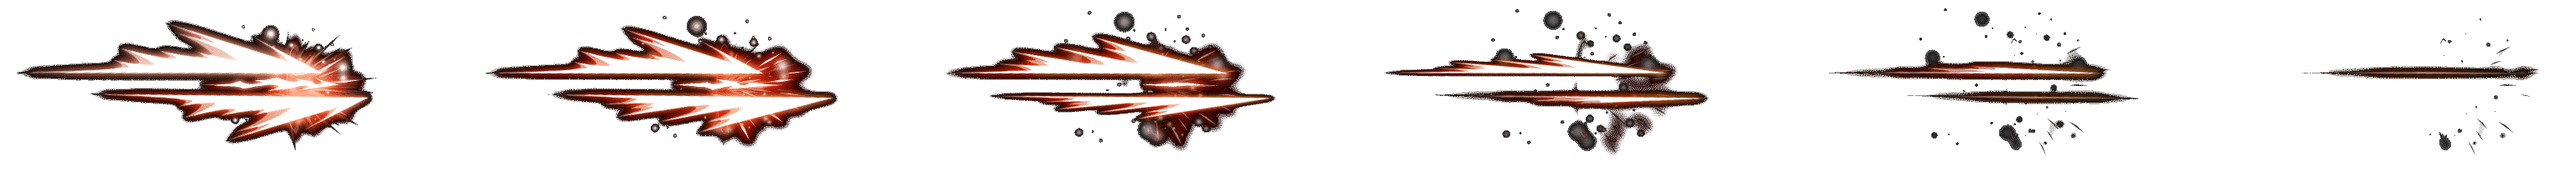
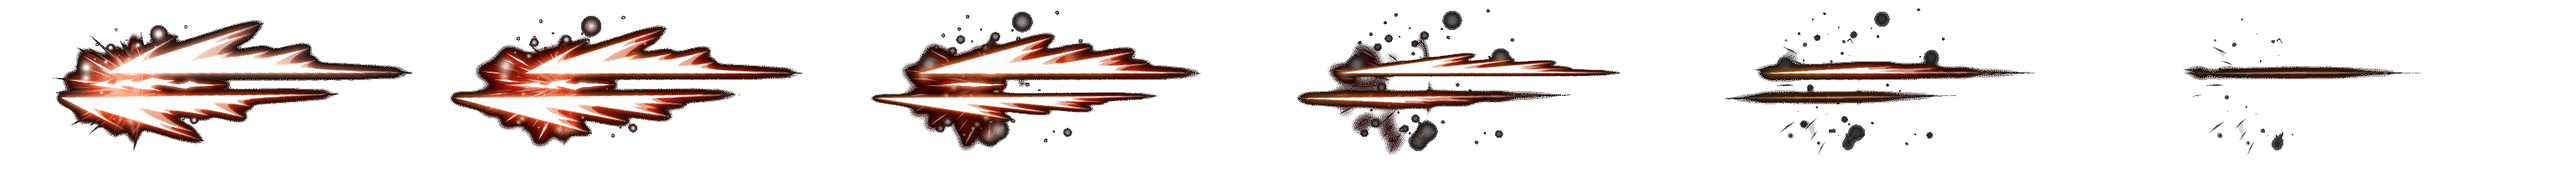
patch

diff --git a/js/systems/combat-runtime.js b/js/systems/combat-runtime.js
@@ -93,7 +93,7 @@ function taijiBladeSize(lv){return 9+lv*1.8}
 function katanaSlashCount(lv){return Math.min(5,1+Math.floor(lv/2))}
 function aoe(x,y,r,damage,source,opt={}){r*=player.areaMul;if(!opt.skipVisual)addVisual({type:"ring",x,y,r,life:.32,max:.32,color:opt.color||C[selectedWeapon],width:opt.width||5,source:opt.vfxSource||source});for(const e of GameSpatial.queryCircle(x,y,r+64)){if(e.dead)continue;const d=Math.hypot(e.x-x,e.y-y);if(d<r+e.r){damageEnemy(e,damage,source,Object.assign({},opt,{distance:d}));if(opt.knock){const n=d||1;e.pushX+=(e.x-x)/n*opt.knock;e.pushY+=(e.y-y)/n*opt.knock;player.metrics.knockbacks++}}}}
 function lineHit(x1,y1,x2,y2,width,damage,source,opt={}){width*=Math.sqrt(player.areaMul);if(!opt.skipVisual)addVisual({type:"line",x1,y1,x2,y2,width,life:opt.life||.2,max:opt.life||.2,color:opt.color||C[selectedWeapon],source:opt.visualSource||source});const pad=width+64;for(const e of GameSpatial.queryAABB(Math.min(x1,x2)-pad,Math.min(y1,y2)-pad,Math.max(x1,x2)+pad,Math.max(y1,y2)+pad)){if(e.dead)continue;const vx=x2-x1,vy=y2-y1,l2=vx*vx+vy*vy||1,t=Math.max(0,Math.min(1,((e.x-x1)*vx+(e.y-y1)*vy)/l2)),px=x1+t*vx,py=y1+t*vy,d=Math.hypot(e.x-px,e.y-py);if(d<width+e.r)damageEnemy(e,damage,source,Object.assign({},opt,{distance:Math.hypot(e.x-player.x,e.y-player.y)}))}}
-function coneHit(angle,range,half,damage,source,opt={}){range*=player.areaMul;half=Math.min(Math.PI,half*Math.sqrt(player.areaMul));if(!opt.skipVisual)addVisual({type:"cone",x:player.x,y:player.y,a:angle,r:range,half,life:.24,max:.24,color:opt.color||C[selectedWeapon],source});for(const e of GameSpatial.queryCircle(player.x,player.y,range+64)){if(e.dead)continue;const dx=e.x-player.x,dy=e.y-player.y,d=Math.hypot(dx,dy);let da=Math.atan2(dy,dx)-angle;da=Math.atan2(Math.sin(da),Math.cos(da));if(d<range+e.r&&Math.abs(da)<half)damageEnemy(e,damage,source,Object.assign({},opt,{distance:d}));}}
+function coneHit(angle,range,half,damage,source,opt={}){range*=player.areaMul;half=Math.min(Math.PI,half*Math.sqrt(player.areaMul));if(!opt.skipVisual)addVisual({type:"cone",x:player.x,y:player.y,a:angle,r:range,half,life:.24,max:.24,color:opt.color||C[selectedWeapon],source});for(const e of GameSpatial.queryCircle(player.x,player.y,range+64)){if(e.dead)continue;const dx=e.x-player.x,dy=e.y-player.y,d=Math.hypot(dx,dy);let da=Math.atan2(dy,dx)-angle;da=Math.atan2(Math.sin(da),Math.cos(da));if(d<range+e.r&&Math.abs(da)<half){damageEnemy(e,damage,source,Object.assign({},opt,{distance:d}));if(opt.knock){const n=d||1;e.pushX+=dx/n*opt.knock;e.pushY+=dy/n*opt.knock;player.metrics.knockbacks++}}}}
 const POISON_STACK_CAP=5;
 function applyPoison(e,potency,duration=5,stacks=1){if(!potency||e.dead)return;const scaled=potency*player.damageMul*player.poisonMul;e.poison=Math.max(e.poison||0,scaled);e.poisonStacks=Math.min(POISON_STACK_CAP,Math.max(0,e.poisonStacks||0)+Math.max(1,stacks|0));e.poisonTime=Math.max(e.poisonTime||0,duration);e.poisonTick=Math.min(e.poisonTick||.15,.15)}
 function damageEnemy(e,dmg,source,opt={}){if(e.dead)return 0;const elite=(e.type==="midboss"||e.type==="boss")?player.eliteDamageMul:1,crit=Math.random()<player.critChance,amount=dmg*player.damageMul*elite*(crit?player.critDamage:1);e.hp-=amount;e.hit=.09;if(crit)addVisual({type:"text",x:e.x,y:e.y-18,text:"치명",life:.32,max:.32,color:"#fff0a8"});screenShake=Math.max(screenShake,opt.shake||1.2);if(opt.poison)applyPoison(e,opt.poison,opt.poisonTime||5,opt.poisonStacks||1);if(opt.deathPoisonTime)e.deathPoisonTime=Math.max(e.deathPoisonTime||0,opt.deathPoisonTime);if(opt.slow){e.slow=Math.min(e.slow,opt.slow);e.slowTime=Math.max(e.slowTime,opt.slowTime||2)}if(opt.disarm){const scale=e.type==="boss"?.35:e.type==="midboss"?.6:1;e.disarmTime=Math.max(e.disarmTime||0,opt.disarm*scale)}if(opt.stun){const stunScale=e.type==="boss"?.32:e.type==="midboss"?.55:1;e.stunTime=Math.max(e.stunTime||0,opt.stun*stunScale)}if(opt.elemental)opt.elemental=true;if(e.hp<=0)killEnemy(e,source,opt);if(!opt.skipImpactVfx)particle(e.x,e.y,opt.color||e.color,55,2);return amount}
@@ -121,7 +121,7 @@ function fireBasic(){const w=selectedWeapon,t=nearest();if(!t)return;const a=Mat
  else if(w==="tao"){chainLightning(t,1+Math.floor(lv/3)+player.projectileBonus,11+lv*5,"elemental");player.fireTimer=.82*Math.pow(.95,lv-1)}
  else if(w==="saber"){const range=(100+lv*12)*saberHeavenRangeMul(),half=(.56+lv*.035)*Math.sqrt(saberHeavenRangeMul()),unity=saberUnityActive(),trueUnity=saberTrueUnityActive(),damage=(20+lv*7)*(trueUnity?1.35:1);coneHit(a,range,half,damage,"basic",{knock:80,shake:trueUnity?7:3,color:C.saber,skipVisual:trueUnity});if(trueUnity)addVisual({type:"skillSaberUnityThunder",x:player.x,y:player.y,a,r:range*player.areaMul,half,life:.42,max:.42,color:"#c072ff",visibilityBoost:1.15});player.fireTimer=.92*Math.pow(.95,lv-1)*(trueUnity?.75:unity?.80:1)}
  else if(w==="katana"){const n=katanaSlashCount(lv),len=235+lv*17,width=9+lv*1.25,base=22+lv*7,interval=Math.max(.052,.09-lv*.004);for(let i=0;i<n;i++){const off=(i-(n-1)/2)*.09,aa=a+off,side=(i%2?1:-1)*(5+i*2);delayed.push({time:i*interval+.012,type:"katanaSlash",a:aa,side,len:len+i*10,width:width+i*.45,damage:base*(i===0?1:.72),color:i===n-1&&lv>=7?"#ffffff":C.katana,arc:36+lv*3+i*4,arcWidth:2.5+lv*.25,index:i,total:n})}player.fireTimer=Math.max(.62,.82*Math.pow(.95,lv-1)+interval*(n-1)*.35)}
- else if(w==="fist"){const range=112+lv*12,half=.50+lv*.018;coneHit(a,range,half,17+lv*6,"basic",{knock:170+lv*12,shake:3,color:"#e8bd62",skipVisual:true});addVisual({type:"skillFistTiger",x:player.x,y:player.y,a,r:range,life:.54,max:.54,color:"#e8bd62",holdAlpha:true});player.fireTimer=.76*Math.pow(.95,lv-1)}
+ else if(w==="fist"){const range=150+lv*15,half=.58+lv*.012;coneHit(a,range,half,17+lv*6,"basic",{knock:210+lv*15,shake:4,color:"#e8bd62",skipVisual:true});addVisual({type:"skillFistTiger",x:player.x,y:player.y,a,r:range,life:.54,max:.54,color:"#e8bd62",holdAlpha:true});player.fireTimer=.76*Math.pow(.95,lv-1)}
 }
 function chainLightning(first,count,damage,source){let current=first,from={x:player.x,y:player.y},used=[];for(let i=0;i<count&&current;i++){addVisual({type:"lightning",x1:from.x,y1:from.y,x2:current.x,y2:current.y,width:3,life:.16,max:.16,color:"#80c8e8"});damageEnemy(current,damage,source,{elemental:true,color:"#80c8e8",shake:2,stun:.22});used.push(current);from=current;current=nearest(175,from.x,from.y,used)}GameAudio.playSFX("lightning-chain")}
 function tickArts(dt){const a=player.arts,cd=player.cooldowns;for(const k in cd)cd[k]-=dt*player.cooldownRate;
@@ -146,7 +146,7 @@ function tickArts(dt){const a=player.arts,cd=player.cooldowns;for(const k in cd)
  if(a.zanshin&&Math.hypot(move.x,move.y)>.3){cd.zanshinDrop=(cd.zanshinDrop||0)-dt;if(cd.zanshinDrop<=0){cd.zanshinDrop=Math.max(.55,1.35-a.zanshin*.12);const x=player.x,y=player.y;addVisual({type:"afterimage",x,y,r:18,life:.65,max:.65,color:C.katana});delayed.push({time:.55,type:"aoe",x,y,r:58+a.zanshin*5,damage:12+a.zanshin*7,color:C.katana,source:"zanshin",knock:60})}}
  if(a.nameless&&cd.nameless<=0){cd.nameless=Math.max(3.7,8-a.nameless*.7);for(let i=0;i<7+a.nameless*2;i++){const ang=Math.random()*Math.PI*2,off=(Math.random()-.5)*260,x1=player.x+Math.cos(ang+Math.PI/2)*off-Math.cos(ang)*500,y1=player.y+Math.sin(ang+Math.PI/2)*off-Math.sin(ang)*500,x2=x1+Math.cos(ang)*1000,y2=y1+Math.sin(ang)*1000;lineHit(x1,y1,x2,y2,6+a.nameless*.8,16+a.nameless*7.6,"nameless",{shake:3,color:"#f8f5ff",life:.13,visualSource:"namelessV1454"});addVisual({type:"namelessCutV1454",x1,y1,x2,y2,width:5+a.nameless*.7,life:.24,max:.24,color:i%3===0?"#ffffff":"#d9d0ff",phase:i*.37})}showMessage("무명신풍류",.9)}
  if(a.hundredstep&&cd.hundredstep<=0){cd.hundredstep=Math.max(1.3,3.5-a.hundredstep*.32);const t=nearest();if(t){const ang=Math.atan2(t.y-player.y,t.x-player.x),count=Math.min(5,1+Math.floor((a.hundredstep-1)/2));addVisual({type:"skillFistHundredShoot",x:player.x,y:player.y,a:ang,r:165,life:.54,max:.54,color:"#f2cf72",holdAlpha:true});delayed.push({time:.34,type:"hundredFistVolley",a:ang,count,level:a.hundredstep})}}
- if(a.taijifist&&cd.taijifist<=0){cd.taijifist=Math.max(1.8,4.6-a.taijifist*.4);const t=nearest(),ang=t?Math.atan2(t.y-player.y,t.x-player.x):facingAngle(),range=132+a.taijifist*14;coneHit(ang,range,.58,12+a.taijifist*6,"taijifist",{knock:300+a.taijifist*22,color:"#e7bd52",shake:6,skipVisual:true});addVisual({type:"skillFistDragonKick",x:player.x,y:player.y,a:ang,r:range,life:.36,max:.36,color:"#f2cc65",holdAlpha:true});addVisual({type:"skillFistDragonKickCombo",x:player.x+Math.cos(ang)*range*.62,y:player.y+Math.sin(ang)*range*.62,a:ang,r:92,life:.75,max:.75,color:"#f6d56c",holdAlpha:true})}
+ if(a.taijifist&&cd.taijifist<=0){cd.taijifist=Math.max(1.8,4.6-a.taijifist*.4);const t=nearest(),ang=t?Math.atan2(t.y-player.y,t.x-player.x):facingAngle(),range=178+a.taijifist*18;coneHit(ang,range,.64,12+a.taijifist*6,"taijifist",{knock:320+a.taijifist*24,color:"#e7bd52",shake:7,skipVisual:true});addVisual({type:"skillFistDragonKick",x:player.x,y:player.y,a:ang,r:range,life:.36,max:.36,color:"#f2cc65",holdAlpha:true});addVisual({type:"skillFistDragonKickCombo",x:player.x+Math.cos(ang)*range*.66,y:player.y+Math.sin(ang)*range*.66,a:ang,r:120,life:.75,max:.75,color:"#f6d56c",holdAlpha:true})}
  if(a.dragonreturn&&cd.dragonreturn<=0){cd.dragonreturn=Math.max(3,7-a.dragonreturn*.58);const t=nearest();if(t){const ang=Math.atan2(t.y-player.y,t.x-player.x),len=Math.max(W,H)*1.1;lineHit(player.x,player.y,player.x+Math.cos(ang)*len,player.y+Math.sin(ang)*len,28+a.dragonreturn*4,48+a.dragonreturn*20,"dragonreturn",{knock:340,shake:12,color:"#efc55f",life:.4,skipVisual:true});addVisual({type:"skillFistGoldenDragon",x:player.x,y:player.y,a:ang,r:len,life:1.08,max:1.08,color:"#efc55f",holdAlpha:true});showMessage(`황룡십팔장 · 황룡 ${player.huanglongStacks||0}/20`,1)}}
 }
 

diff --git a/js/vfx/sprite-vfx-v14-3-8.js b/js/vfx/sprite-vfx-v14-3-8.js
@@ -338,15 +338,15 @@ drawVisuals=function(){
       // All directional fist sprites are normalized so +X is forward.
       // sourceX/sourceY are the local pixel coordinates that must sit on the caster/impact point.
       const cfg={
-        skillFistTiger:{id:"skillFistTiger",fw:512,fh:206,sourceX:46,sourceY:103,scale:Math.max(.34,r/512)},
+        skillFistTiger:{id:"skillFistTiger",fw:512,fh:206,sourceX:466,sourceY:103,scale:Math.max(.72,r/250)},
         skillFistHundredShoot:{id:"skillFistHundredShoot",fw:466,fh:275,sourceX:233,sourceY:138,scale:.56},
         skillFistHundredCombo:{id:"skillFistHundredCombo",fw:640,fh:483,sourceX:320,sourceY:242,scale:.38},
-        skillFistDragonKick:{id:"skillFistDragonKick",fw:382,fh:200,sourceX:42,sourceY:102,scale:Math.max(.38,r/382)},
-        skillFistDragonKickCombo:{id:"skillFistDragonKickCombo",fw:460,fh:540,sourceX:230,sourceY:300,scale:.42},
+        skillFistDragonKick:{id:"skillFistDragonKick",fw:382,fh:200,sourceX:42,sourceY:102,scale:Math.max(.78,r/250)},
+        skillFistDragonKickCombo:{id:"skillFistDragonKickCombo",fw:460,fh:540,sourceX:230,sourceY:300,scale:.56},
         skillFistGoldenDragon:{id:"skillFistGoldenDragon",fw:1304,fh:516,sourceX:115,sourceY:278,scale:Math.max(.46,r/1304)},
         skillFistToOneDefense:{id:"skillFistToOneDefense",fw:667,fh:601,sourceX:334,sourceY:301,scale:.42},
         skillFistToOne:{id:"skillFistToOne",fw:1614,fh:1040,sourceX:270,sourceY:520,scale:.42},
-        skillFistGoldenCharge:{id:"skillFistGoldenCharge",fw:822,fh:663,sourceX:260,sourceY:340,scale:.55}
+        skillFistGoldenCharge:{id:"skillFistGoldenCharge",fw:822,fh:663,sourceX:562,sourceY:340,scale:.62}
       }[v.type];
       const localX=(cfg.fw*.5-cfg.sourceX)*cfg.scale,localY=(cfg.fh*.5-cfg.sourceY)*cfg.scale;
       const x=v.x+Math.cos(a)*localX-Math.sin(a)*localY;

diff --git a/js/data/characters-meta.js b/js/data/characters-meta.js
@@ -201,11 +201,12 @@ function ultimateAttack(){
    for(let i=0;i<12;i++){const ang=(i%6)*Math.PI/3+.14*Math.floor(i/6),off=(i-5.5)*24,x1=player.x+Math.cos(ang+Math.PI/2)*off-Math.cos(ang)*650,y1=player.y+Math.sin(ang+Math.PI/2)*off-Math.sin(ang)*650;delayed.push({time:i*.045,type:"aoe",x:player.x+Math.cos(ang+Math.PI/2)*off,y:player.y+Math.sin(ang+Math.PI/2)*off,r:78,damage:62,color:"#f2efff",source:"ultimate",knock:0});addVisual({type:"line",x1,y1,x2:x1+Math.cos(ang)*1300,y2:y1+Math.sin(ang)*1300,width:8,life:.62,max:.62,color:"#f2efff"})}
  }else{
    const stacks=player.huanglongStacks||0,scale=1+stacks*.035,beamLen=Math.max(W,H)*1.32,beamWidth=(82+stacks*2.2)*player.areaMul;
+   const castX=player.x,castY=player.y,castA=a;
    setHuanglongStacks(0);
-   addVisual({type:"skillFistGoldenCharge",x:player.x,y:player.y,a,r:205,life:1.56,max:1.56,color:"#ffd85a",holdAlpha:true});
-   const chargeScale=.55,muzzle=(650-260)*chargeScale,x0=player.x+Math.cos(a)*muzzle,y0=player.y+Math.sin(a)*muzzle;
-   delayed.push({time:1.42,type:"goldenDragonBeamStart",x:x0,y:y0,a,len:beamLen,width:beamWidth,damage:24*scale,stacks});
-   addVisual({type:"text",x:player.x,y:player.y-52,text:`황룡 ${stacks} · 전량 방출`,life:1.0,max:1.0,color:"#ffe99a"});
+   addVisual({type:"skillFistGoldenCharge",x:castX,y:castY,a:castA,r:240,life:1.56,max:1.56,color:"#ffd85a",holdAlpha:true});
+   const muzzle=58,x0=castX+Math.cos(castA)*muzzle,y0=castY+Math.sin(castA)*muzzle;
+   delayed.push({time:1.42,type:"goldenDragonBeamStart",x:x0,y:y0,a:castA,len:beamLen,width:beamWidth,damage:24*scale,stacks,castX,castY});
+   addVisual({type:"text",x:castX,y:castY-52,text:`황룡 ${stacks} · 전량 방출`,life:1.0,max:1.0,color:"#ffe99a"});
  }
  showMessage(currentUltimateName(selectedWeapon),1.5);
 }

diff --git a/js/core/asset-loader.js b/js/core/asset-loader.js
@@ -8,7 +8,7 @@
  * 코드 생성 캐릭터로 되돌아가는 상황을 막기 위해 모든 시스템이 같은 Image 객체를 공유한다.
  */
 const GameAssets=(()=>{
-  const BUILD="v14.9.4-fist-anchor-normalization";
+  const BUILD="v14.9.5-fist-placement-hotfix";
   const characterIds=["sword","spear","bow","poison","tao","saber","katana","fist"];
   const enemyIds=["bandit","spear","brute","master","assassin","blackblade","ironmonk","poisonhand","boss"];
   const weaponVisualIds=["sword","spear","bow","poison","tao","saber","katana","fist"];

diff --git a/service-worker.js b/service-worker.js
@@ -1,7 +1,7 @@
 "use strict";
 
 /** v14.6.9 sprite-first VFX architecture cache. 대용량 BGM은 스트리밍하고 SFX는 최초 사용 뒤 캐시한다. */
-const CACHE="cheonha-v14-9-4-fist-anchor-normalization";
+const CACHE="cheonha-v14-9-5-fist-placement-hotfix";
 const APP_SHELL=[
   "./","index.html","manifest.webmanifest",
   "css/base.css","css/systems.css","css/remaster.css","css/mobile.css","css/animation-pass.css","css/awakening-cutscene.css","css/forge-v13.css","css/v14-improvements.css","css/audio-mixer-v14-3-3.css",
